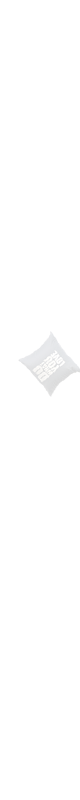
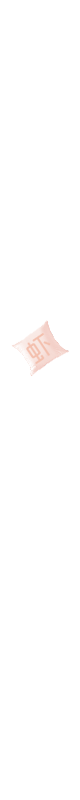
222

Changed region(s): [[0.3, 0.375, 1.0, 0.5]]

diff --git a/css/main.css b/css/main.css
@@ -506,7 +506,7 @@
     top: 0.46rem;
     left: 0.38rem;
     width: 2.6rem;
-    z-index: 99;
+    z-index: 19;
     display: none;
 }
 .huazhu_logo img{
@@ -556,19 +556,12 @@
 }
 
 @-webkit-keyframes light{
-    0%{  opacity: 0;  }
-    50%{ opacity: 1;  }
-    100%{  opacity: 0;  }
+    0%{opacity: 0;  transform:rotate(0deg);  }
+    50%{opacity: 1; transform:rotate(180deg);}
+    100%{opacity: 0;transform:rotate(360deg);}
 }
 @-moz-keyframes light{
-    0%{
-        opacity: 0;
-
-    } 50%{
-          opacity: 1;
-      }
-100%{
-    opacity: 0;
-
-}
+    0%{opacity: 0;  transform:rotate(0deg);  }
+    50%{opacity: 1; transform:rotate(180deg);}
+    100%{opacity: 0;transform:rotate(360deg);}
 }
